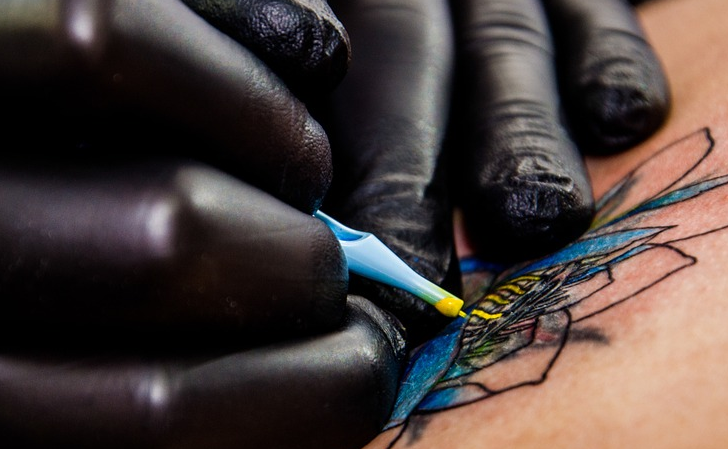
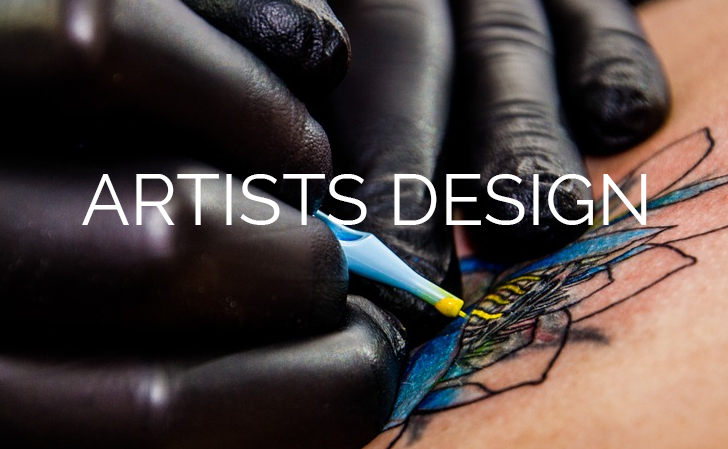
About Cards

Changed region(s): [[0.0907, 0.3742, 0.5137, 0.4989], [0.544, 0.3742, 0.9066, 0.4989]]

diff --git a/index.html b/index.html
@@ -112,8 +112,26 @@
             </div>
     </div>
 
-       
+    <div class="about">
+        <div class="container">
+            <div class="box1">
+                <a href="#"><img src="images/About/whoweare.png" alt=""></a>
+            </div>
+
+            <div class="box2">
+                <a href="#"><img src="images/About/disign.png" alt=""></a>
+            </div>
+        </div>
+
+
+        <div class="container">
+            <div class="art">
+                <a href="#"><img src="images/About/tattoo.png" alt=""></a>
+            </div>
+        </div>
     </div>
+ 
+
 
     
 </body>

diff --git a/style.css b/style.css
@@ -134,7 +134,7 @@ img{
 
 .products .container-wide{
     justify-content: space-between;
-    margin:30px auto;
+    margin:50px auto;
 }
 
 .card{
@@ -146,7 +146,8 @@ img{
 
  .button a{
     border: 1px solid black;
-    padding: 15px;
+    padding: 10px;
+    font-size: 0.8rem;
 }
 
 .button a:hover{
@@ -157,4 +158,16 @@ img{
 
 .button{
     direction: rtl;
+}
+
+.box1{
+    margin: 10px 10px 0  0;
+}
+
+.box2{
+    margin: 10px 0 10px  10px;
+}
+
+.about a:hover{
+    opacity: 45%;
 }
